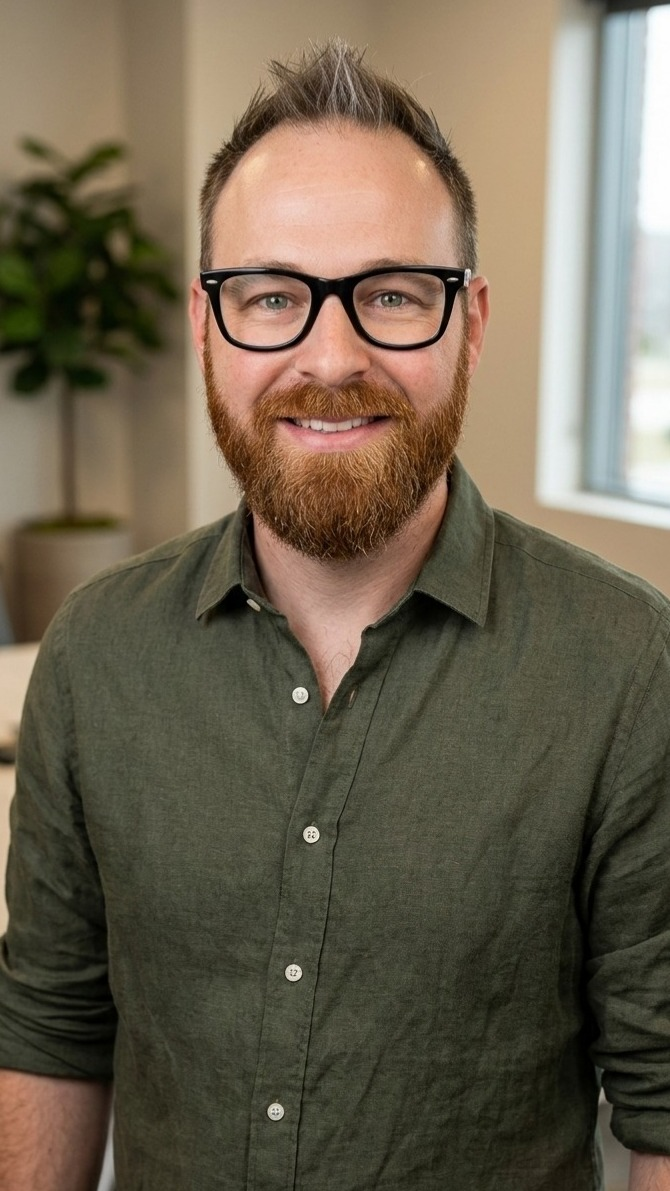
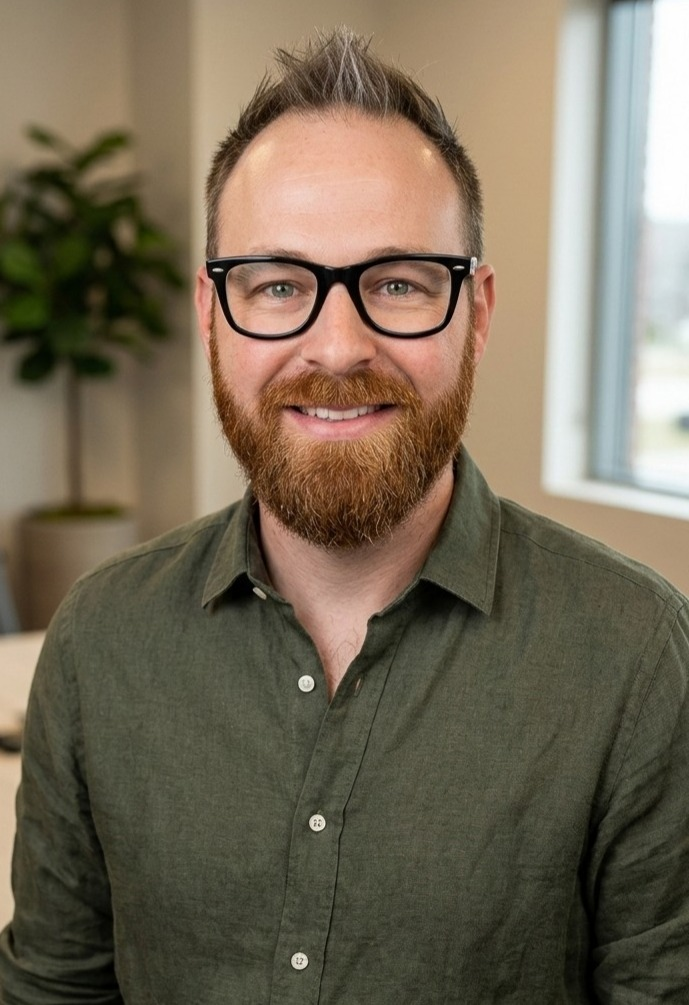
Udated About Me and changed about me picture

diff --git a/index.html b/index.html
@@ -92,7 +92,7 @@
             <div class="intro" data-aos="fade-right" data-aos-delay="150">
               <div class="eyebrow d-inline-flex align-items-center gap-2 mb-3">
                 <span class="dot"></span>
-                <span class="text">Lorem ipsum dolor sit amet</span>
+                <span class="text">Healthcare Data Analytics</span>
               </div>
 
               <h1 class="display-heading mb-3">
@@ -100,7 +100,7 @@
               </h1>
 
               <p class="lead mb-4">
-                Analyzing healthcare data to uncover trends, improve operations, and support better patient care.
+                Analyzing healthcare data to discover trends, improve operations, and support better patient care.
               </p>
 
               <div class="cta-group d-flex flex-wrap align-items-center gap-3" data-aos="zoom-in" data-aos-delay="250">
@@ -161,12 +161,15 @@
           <div class="col-lg-7" data-aos="fade-right" data-aos-delay="150">
             <div class="intro-content">
               <span class="eyebrow">Hello there</span>
-              <h2 class="headline">Hi, I’m Greg — a calm-minded creative developer crafting serene digital journeys</h2>
+              <h2 class="headline">Hi, I’m Greg — a seasoned chiropractor turned data anlyst</h2>
               <p class="lead">
-                Lorem ipsum dolor sit amet, consectetur adipiscing elit. Pellentesque habitant morbi tristique senectus et netus. Sed interdum, nunc non feugiat tempor, orci lorem luctus ligula, vitae rutrum nisl lorem non nulla.
+                I come from a background in healthcare, where I spent over a decade working directly with patients and navigating the world of health insurance. That experience taught me how to recognize patterns, think critically, and make thoughtful decisions—skills that naturally led me toward data analytics. 
               </p>
               <p>
-                Integer posuere lacus in mi fringilla, eget luctus risus pulvinar. Curabitur a arcu a nisl tempus sagittis. Aenean varius, tortor sed porttitor dictum, augue eros viverra lectus, at efficitur magna lacus in risus.
+                As I began working more with data, I became especially interested in how it can be used to improve healthcare systems. I’ve been building my skills in SQL, Python, and data visualization, focusing on analyzing data and turning information into something meaningful and actionable.
+              </p>
+              <p>
+                What I enjoy most is the process of investigating a problem. The excitement of finding clarity in the data, knowing that my insights can help make a difference, is what made me ultimately decide to change careers . I’m currently looking for opportunities to apply these skills in a healthcare setting and continue growing as a data analyst.
               </p>
 
               <div class="cta-group">
@@ -182,7 +185,7 @@
 
           <div class="col-lg-5" data-aos="zoom-in" data-aos-delay="250">
             <figure class="profile-figure text-center text-lg-end">
-              <img src="assets/img/profile/home-office.jpg" alt="Portrait of Greg" class="img-fluid profile-photo">
+              <img src="assets/img/profile/office-time.JPG" alt="Portrait of Greg" class="img-fluid profile-photo">
               <figcaption class="profile-caption d-flex justify-content-end">
               </figcaption>
             </figure>
